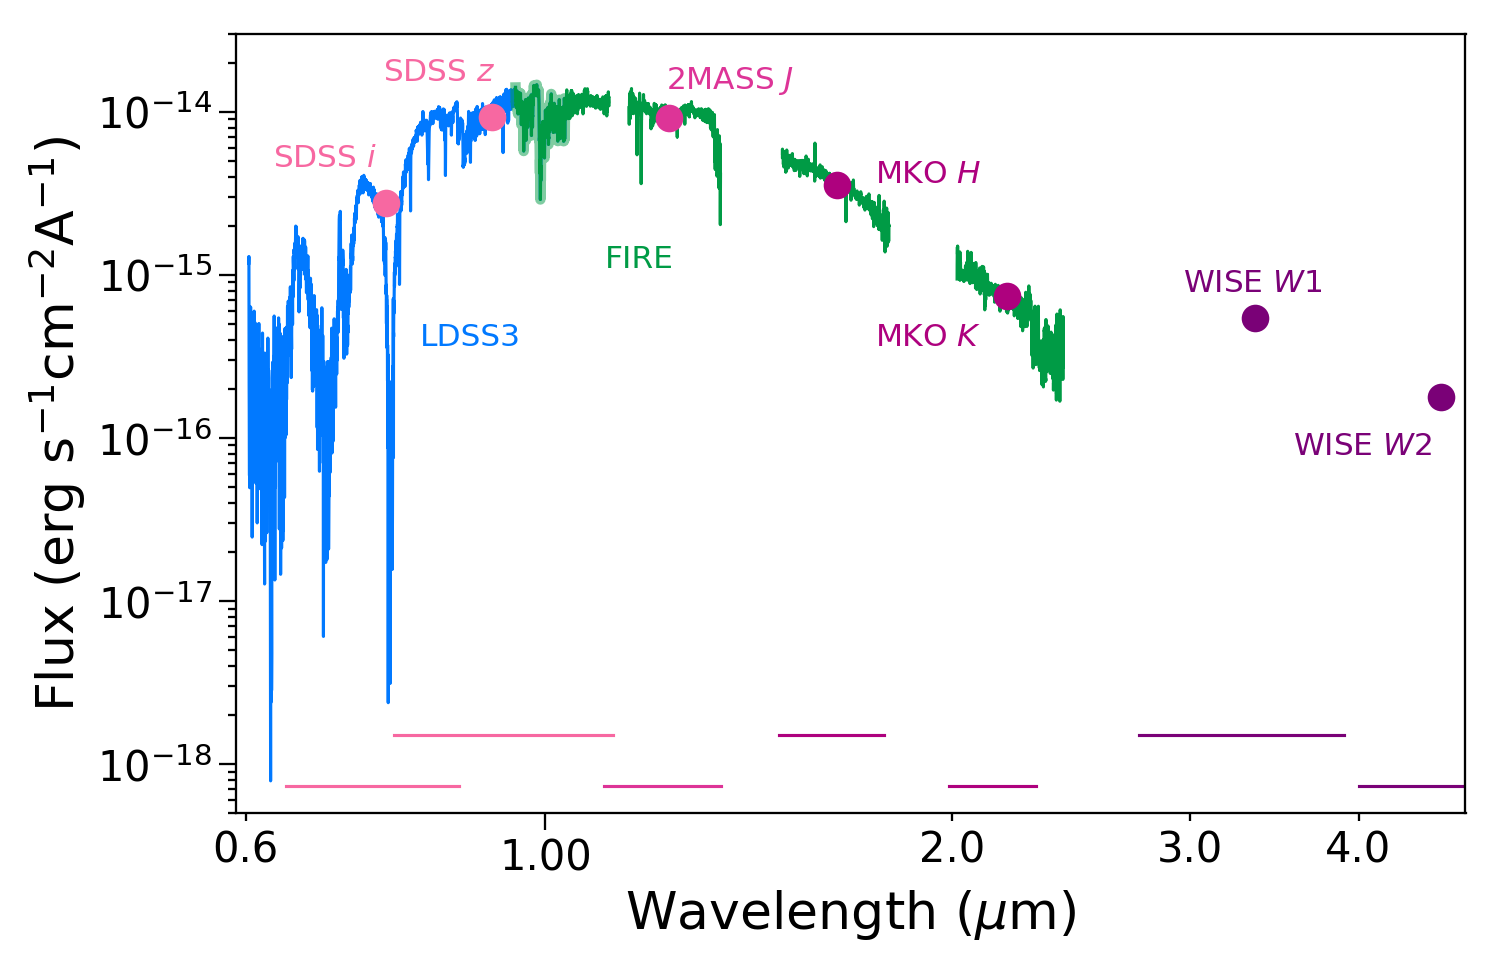
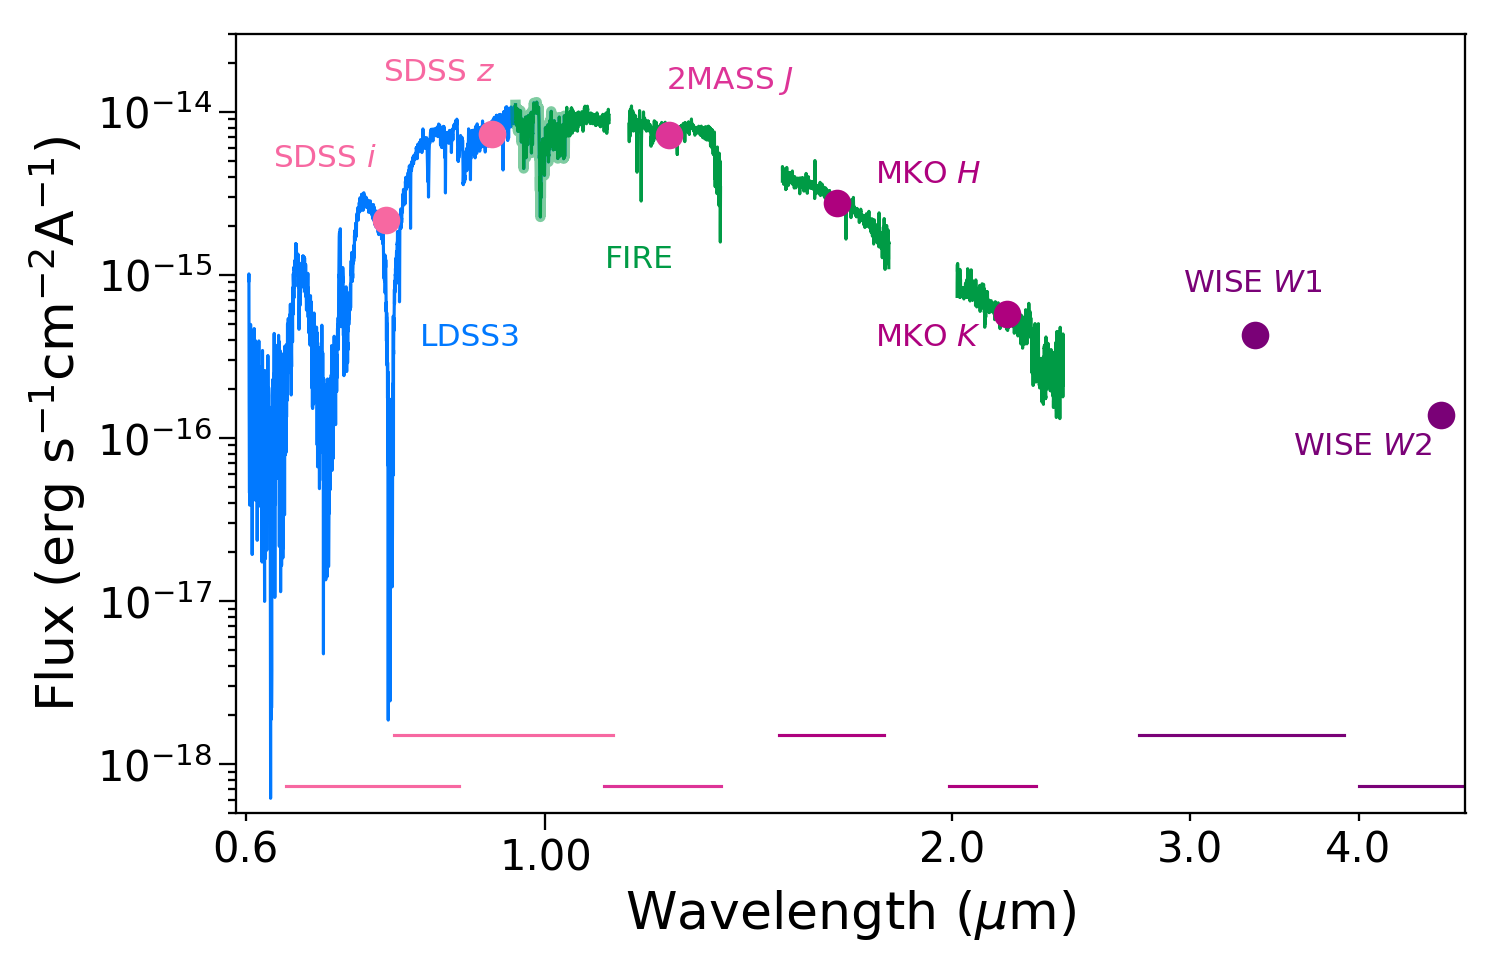
New Gaia pi for 1256

diff --git a/regimes.py b/regimes.py
@@ -9,9 +9,9 @@ from matplotlib.ticker import ScalarFormatter
 
 # ------------ 1256-0224 (Poster in SED)----------------
 # Read in as pandas dataframe
-df = pd.read_csv('Data/correctpi1256-0224 (L3.5sd) SED_nan.txt', sep=" ", comment='#', header=None,
+df = pd.read_csv('Data/Gaia1256-0224 (L3.5sd) SED.txt', sep=" ", comment='#', header=None,
                  names=["w", "f", "err"])
-df2 = pd.read_csv('Data/correctpi1256-0224 (L3.5sd) phot.txt', sep=" ", header=1, names=["w", "f", "err"])
+df2 = pd.read_csv('Data/Gaia1256-0224 (L3.5sd) phot.txt', sep=" ", header=1, names=["w", "f", "err"])
 # header=1 skips the 2MASS H which is ok here but not other times, use stuff above
 
 
